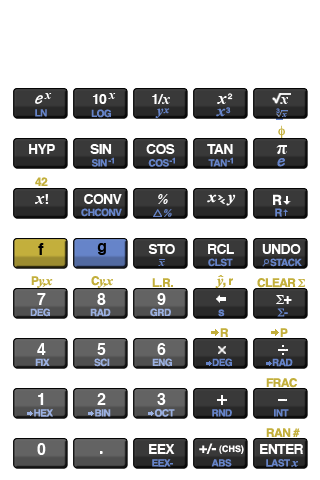
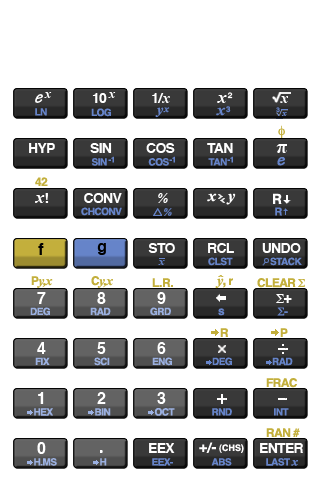
Added ->H and ->H.MS, fixed a stack bug. Some work on the help.

diff --git a/app/views/help2/help2-scene.html b/app/views/help2/help2-scene.html
@@ -10,6 +10,7 @@
 			<li><a href="#keyboard">Keyboard Operation</a></li>
 			<li><a href="#prefixkeys">Prefix Keys</a></li>
 			<li><a href="#chs">Changing Signs</a></li>
+			<li><a href="#exponents">Exponents</a></li>
 			<li><a href="#onenumber">One Number Functions</a></li>
 			<li><a href="#twonumber">Two Number Functions and the ENTER key</a></li>
 			<li><a href="#chain">Chain Calculations</a></li>
@@ -27,10 +28,10 @@
 		<p class="buttonsequence"><img src="images/help/btn_g.png" alt="g" /> <img src="images/help/btn_four.png" alt="four" /><br /><img src="images/help/btn_g.png" alt="g" /> <img src="images/help/btn_five.png" alt="five" /><br /><img src="images/help/btn_g.png" alt="g" /> <img src="images/help/btn_six.png" alt="six" /></p>
 		<h2><a name="chs"></a>Changing Signs</h2>
 		<p>Press <img src="images/help/btn_chs.png" alt="chs" />to change the sign of any number in the display. To enter a negative number, key in the number and press <img src="images/help/btn_chs.png" alt="chs" /></p>
-		<h2>Exponents</h2>
-		<p><img src="images/help/btn_eex.png" alt="eex" /> is used to enter numbers with an exponent. To enter 15<sup>3</sup> use:</p>
+		<h2><a name="exponents"></a>Exponents</h2>
+		<p><img src="images/help/btn_eex.png" alt="eex" /> is used to enter numbers with an exponent. To enter 15 x 10<sup>3</sup> use:</p>
 		<p class="buttonsequence"><img src="images/help/btn_one.png" alt="1" /> <img src="images/help/btn_five.png" alt="5" /> <img src="images/help/btn_eex.png" alt="eex" /> <img src="images/help/btn_three.png" alt="3" /></p>
-		<p>To enter a negative exponent use the g-shifted EEX- function. To enter 5<sup>-2</sup> use:</p>
+		<p>To enter a negative exponent use the g-shifted EEX- function. To enter 5 * 10 <sup>-2</sup> use:</p>
 		<p class="buttonsequence"><img src="images/help/btn_five.png" alt="5" /> <img src="images/help/btn_g.png" alt="g" /> <img src="images/help/btn_eex.png" alt="eex" /> <img src="images/help/btn_two.png" alt="2" /></p>
 		<h2>Clearing</h2>
 		<p>To erase a digit, use the <img src="images/help/btn_backspace.png" alt="backspace" /> key. Every press will erase one digit of the currently entered value. If the value in the display is the result of an earlier used function the entire value will be erased with one press of <img src="images/help/btn_backspace.png" alt="backspace" /></p>

diff --git a/app/models/calculator.js b/app/models/calculator.js
@@ -596,6 +596,42 @@ var Calculator = Class.create({
 			return this.displayBuffer;
 		}
 
+		if(type === 'zero' && this.mode_g == true) {
+			// to h.ms
+			this.lastx = this.Stack.cards[0];
+			var h;
+			var m;
+			var s;
+			h = Math.floor(this.Stack.cards[0]);
+			m = 60 * (this.Stack.cards[0] - h);
+			h = h + Math.floor(m)/100;
+			s = 60 * (m - Math.floor(m));
+			h = h + Math.floor(s)/10000;
+			this.Stack.cards[0] = h.toFixed(4);
+			this.displayBuffer = this.Stack.cards[0].toString();
+			this.operationDone = 1;
+			this.resetModes();
+			console.log('WTF ' + this.displayBuffer);
+			return this.displayBuffer;
+		}
+		
+		if(type === 'dot' && this.mode_g == true) {
+			this.lastx = this.Stack.cards[0];
+			var h;
+			var m;
+			var s;
+			h = Math.floor(this.Stack.cards[0]);
+			m = (this.Stack.cards[0] - h) * 100;
+			h = h + Math.floor(m)/60;
+			s = (m - Math.floor(m)) * 100;
+			h = h + s/3600;
+			this.Stack.cards[0] = h.toFixed(4);
+			this.displayBuffer = this.Stack.cards[0].toString();
+			this.operationDone = 1;
+			this.resetModes();
+			return this.displayBuffer;
+		}
+		
 		if(type === 'four' && this.mode_g == true) {
 			$('mode_fix').addClassName('on');
 			$('mode_g').removeClassName('on');
@@ -1406,10 +1442,7 @@ var Calculator = Class.create({
 					this.operationDone = 1;
 					return this.getDisplayBuffer();
 				}
-				if(this.displayBuffer.toString().length === 1) {
-					this.displayBuffer = '';
-					return this.displayBuffer;
-				}
+
 				if(this.enterPressed === 1) {
 					this.displayBuffer = '';
 					// keep going: this.Stack.backSpace();
@@ -1424,6 +1457,11 @@ var Calculator = Class.create({
 					// cls
 					this.Stack.cards[0] = 0;
 					this.operationDone = 0;
+					return this.displayBuffer;
+				}
+				if(this.displayBuffer.toString().length === 1) {
+					this.Stack.cards[0] = 0;
+					this.displayBuffer = '';
 					return this.displayBuffer;
 				}
 				if(this.displayBuffer.toString().length > 0 && this.displayBuffer.toString() !== 0) {

diff --git a/app/controllers/app-assistant.js b/app/controllers/app-assistant.js
@@ -23,9 +23,6 @@ StageAssistant.prototype.handleCommand = function(event) {
 			case 'do-aboutCalculator':
 			this.stageController.pushScene("about");
 			break;
-			case 'do-help':
-			this.stageController.pushScene("help");
-			break;
 			case 'do-support':
 			this.stageController.pushScene("support");
 			break;

diff --git a/app/views/about/about-scene.html b/app/views/about/about-scene.html
@@ -1,6 +1,6 @@
 <div id="about" class="palm-dark">
 	<div class="palm-header left">
-		Scientific RPN Calculator 1.0B40
+		Scientific RPN Calculator 1.0B41
 	</div>
 	<div class="aboutcontent">
 		<p><strong>Beta version! Not to be used for rocket science just yet!</strong><br />
